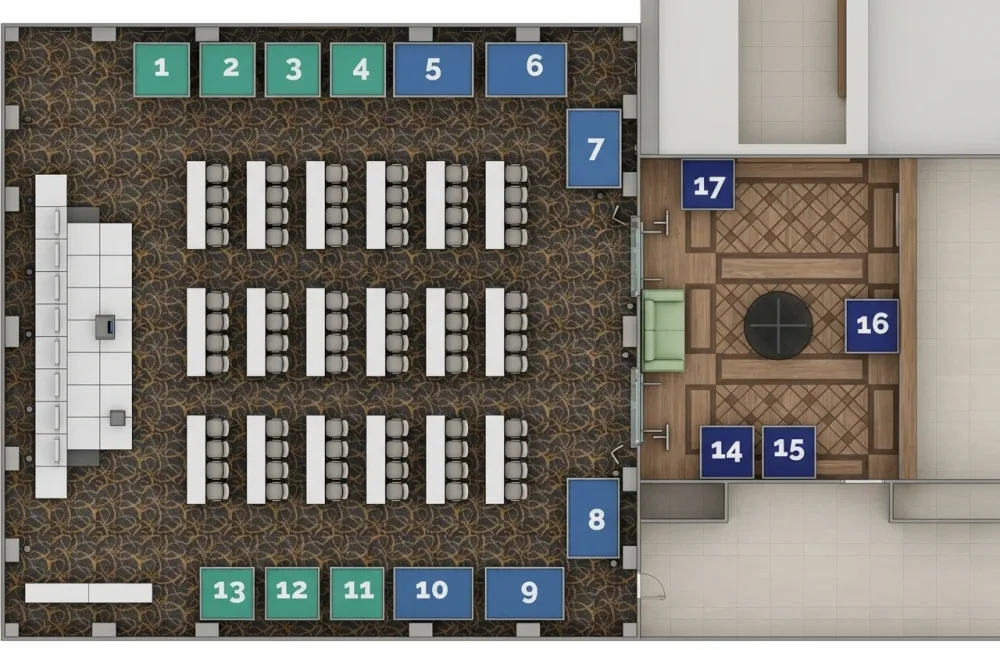
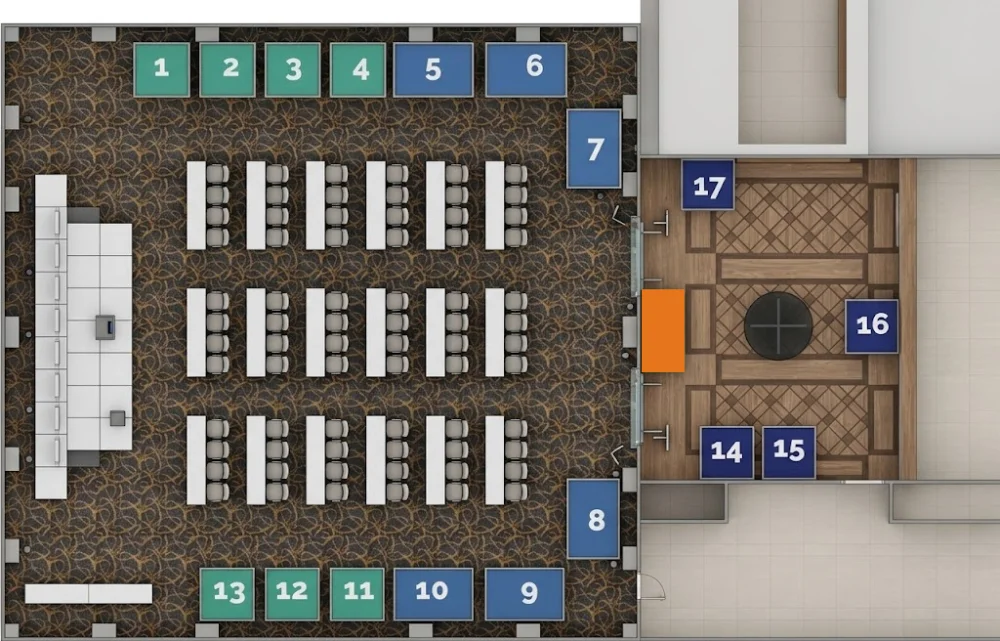
Replace exhibit floor plan with clearer version, update registration marker color
New image marks the registration area in orange instead of light green;
updated the legend swatch to match (#e5751b).

diff --git a/aviatdo-360-partner-es.html b/aviatdo-360-partner-es.html
@@ -276,13 +276,13 @@
     <div class="reveal" style="margin-top:40px;">
       <h3 style="margin:0 0 16px; font-size:18px; font-weight:800;">Dónde se ubican los espacios de exhibición en el piso del foro</h3>
       <div class="card-flat" style="border-radius:16px; overflow:hidden; border:1px solid var(--divider);">
-        <img src="images/venue-exhibit-floorplan.webp" width="1000" height="650" loading="lazy" alt="Plano del piso del foro mostrando la ubicación numerada de los stands Plata, Oro y Premium junto al área de registro" style="width:100%; height:auto; display:block;">
+        <img src="images/venue-exhibit-floorplan.webp" width="1000" height="641" loading="lazy" alt="Plano del piso del foro mostrando la ubicación numerada de los stands Plata, Oro y Premium junto al área de registro" style="width:100%; height:auto; display:block;">
       </div>
       <div style="display:flex; gap:20px; flex-wrap:wrap; margin-top:16px;">
         <span style="display:flex; align-items:center; gap:8px; font-size:13px; color:var(--graphite);"><span style="width:12px; height:12px; border-radius:3px; background:#1c8f7a; flex-shrink:0;"></span>7 stands Plata (2×2 m)</span>
         <span style="display:flex; align-items:center; gap:8px; font-size:13px; color:var(--graphite);"><span style="width:12px; height:12px; border-radius:3px; background:#1c5f8f; flex-shrink:0;"></span>6 stands Oro (3×2 m)</span>
         <span style="display:flex; align-items:center; gap:8px; font-size:13px; color:var(--graphite);"><span style="width:12px; height:12px; border-radius:3px; background:#152a5c; flex-shrink:0;"></span>4 stands Premium</span>
-        <span style="display:flex; align-items:center; gap:8px; font-size:13px; color:var(--graphite);"><span style="width:12px; height:12px; border-radius:3px; background:#a3d39c; flex-shrink:0;"></span>Registro</span>
+        <span style="display:flex; align-items:center; gap:8px; font-size:13px; color:var(--graphite);"><span style="width:12px; height:12px; border-radius:3px; background:#e5751b; flex-shrink:0;"></span>Registro</span>
       </div>
     </div>
   </section>

diff --git a/aviatdo-360-partner.html b/aviatdo-360-partner.html
@@ -276,13 +276,13 @@
     <div class="reveal" style="margin-top:40px;">
       <h3 style="margin:0 0 16px; font-size:18px; font-weight:800;">Where exhibit spaces sit on the forum floor</h3>
       <div class="card-flat" style="border-radius:16px; overflow:hidden; border:1px solid var(--divider);">
-        <img src="images/venue-exhibit-floorplan.webp" width="1000" height="650" loading="lazy" alt="Forum floor plan showing the numbered Silver, Gold and Premium exhibit stand locations next to the registration desk" style="width:100%; height:auto; display:block;">
+        <img src="images/venue-exhibit-floorplan.webp" width="1000" height="641" loading="lazy" alt="Forum floor plan showing the numbered Silver, Gold and Premium exhibit stand locations next to the registration area" style="width:100%; height:auto; display:block;">
       </div>
       <div style="display:flex; gap:20px; flex-wrap:wrap; margin-top:16px;">
         <span style="display:flex; align-items:center; gap:8px; font-size:13px; color:var(--graphite);"><span style="width:12px; height:12px; border-radius:3px; background:#1c8f7a; flex-shrink:0;"></span>7 Silver stands (2×2 m)</span>
         <span style="display:flex; align-items:center; gap:8px; font-size:13px; color:var(--graphite);"><span style="width:12px; height:12px; border-radius:3px; background:#1c5f8f; flex-shrink:0;"></span>6 Gold stands (3×2 m)</span>
         <span style="display:flex; align-items:center; gap:8px; font-size:13px; color:var(--graphite);"><span style="width:12px; height:12px; border-radius:3px; background:#152a5c; flex-shrink:0;"></span>4 Premium stands</span>
-        <span style="display:flex; align-items:center; gap:8px; font-size:13px; color:var(--graphite);"><span style="width:12px; height:12px; border-radius:3px; background:#a3d39c; flex-shrink:0;"></span>Registration</span>
+        <span style="display:flex; align-items:center; gap:8px; font-size:13px; color:var(--graphite);"><span style="width:12px; height:12px; border-radius:3px; background:#e5751b; flex-shrink:0;"></span>Registration</span>
       </div>
     </div>
   </section>
